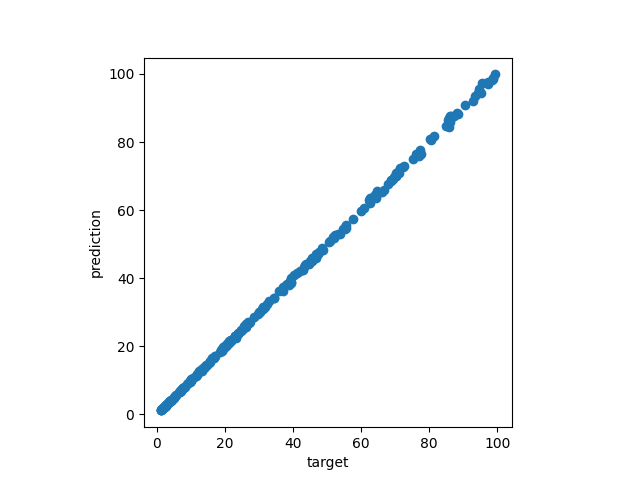
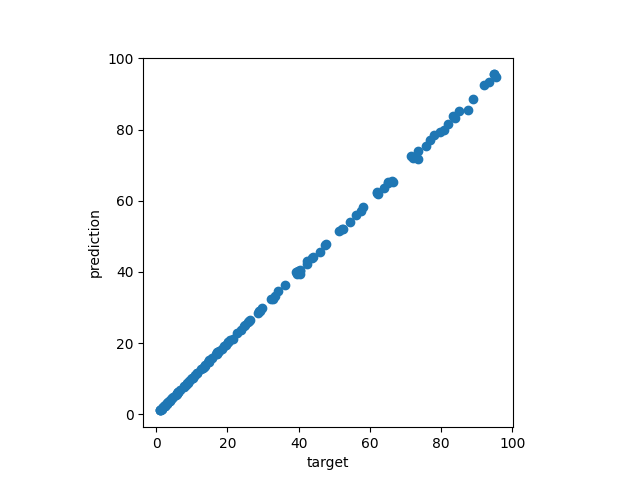
Add Cech sklearn test and reduce to 500 the number of points

diff --git a/src/python/example/cech_complex_sklearn_itf.py b/src/python/example/cech_complex_sklearn_itf.py
@@ -21,7 +21,7 @@ args = parser.parse_args()
 no_plot = args.no_plot
 
 # Build the dataset
-dataset_size = 1000
+dataset_size = 500
 # Noise is expressed in percentage of radius - set it to 0. for no noise
 noise = 0.1
 # target is a list of 1000 random circle radiuses (between 1. and 10.)

diff --git a/src/python/doc/delaunay_complex_sklearn_itf_ref.rst b/src/python/doc/delaunay_complex_sklearn_itf_ref.rst
@@ -16,7 +16,7 @@
 Čech complex persistence scikit-learn like interface example
 ------------------------------------------------------------
 
-In this example, we build a dataset `X` composed of 1000 circles of radius randomly between 1.0 and 10.0.
+In this example, we build a dataset `X` composed of 500 circles of radius randomly between 1.0 and 10.0.
 N points are subsampled randomly on each circle, where N randomly between 100 and 300 for each circle.
 In order to complicate things, some noise (+/- 5% of the radius value) to the point coordinates.
 
